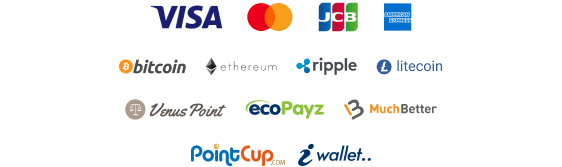
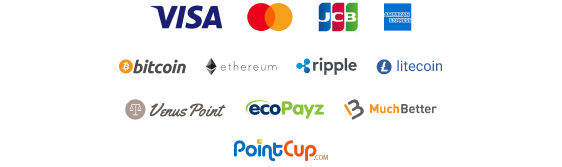
Replace assets

Changed region(s): [[0.3327, 0.8383, 0.6655, 1.0]]

diff --git a/components/templates/vjhp/TheSection5.vue b/components/templates/vjhp/TheSection5.vue
@@ -8,12 +8,12 @@
           <br />各種ゲームの探し方から遊び方、入出金方法などを
           <br />完全網羅する「ビギナーズガイド」がお手伝いします!
         </p>
-        <img src="/marketing/img/vjhp/frame130.png" alt=""/>
+        <img src="/marketing/img/vjhp/reward-component_1.png" alt=""/>
       </li>
       <li class="style1">
         <h3>ご褒美プログラム</h3>
         <p>楽しく遊んでコインを集めて、ベラジョン・ショッ プでお買い物! フリースピンやスピンクレジット、キャッシュアイ テムとも交換できちゃいます!</p>
-        <img src="/marketing/img/vjhp/imgLevelUp_ICJP.png" alt=""/>
+        <img src="/marketing/img/vjhp/reward-component_2.png" alt=""/>
       </li>
       <li class="style1">
         <h3>毎日開催トーナメント</h3>
@@ -21,7 +21,7 @@
           勝ち方いろいろ、賞金いろいろ、多種多様なトーナ
           <br />メントが毎日開催! 得意なゲームでいざ勝負!
         </p>
-         <img src="/marketing/img/vjhp/frame98.png" alt=""/>
+         <img src="/marketing/img/vjhp/reward-component_3.png" alt=""/>
       </li>
     </ul>
   </section>

diff --git a/components/templates/vjhp/TheSection2.vue b/components/templates/vjhp/TheSection2.vue
@@ -3,10 +3,7 @@
     <header class="heading">
       <h2>プロ厳選! 決済方法</h2>
       <div>
-        <img src="/marketing/img/vjhp/payment-row1.png" alt=""/>
-      </div>
-      <div>
-        <img src="/marketing/img/vjhp/payment-row2.png" alt=""/>
+        <img src="/marketing/img/vjhp/footerPayment.png" alt=""/>
       </div>
       <p>
         ベラジョンに導入されている決済方法は、その道のプロが厳選した便利で安心の決済方法のみ!
